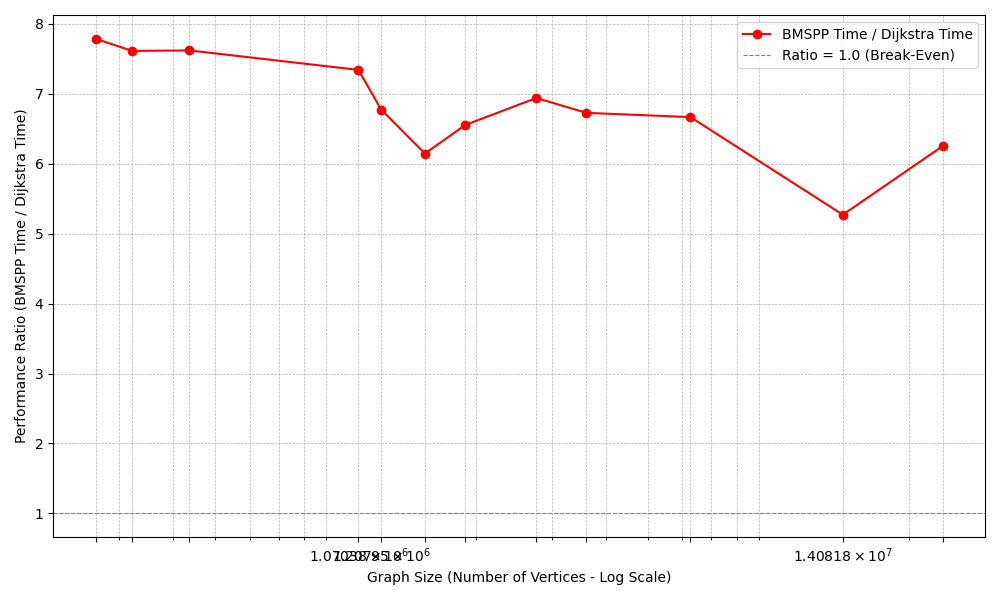
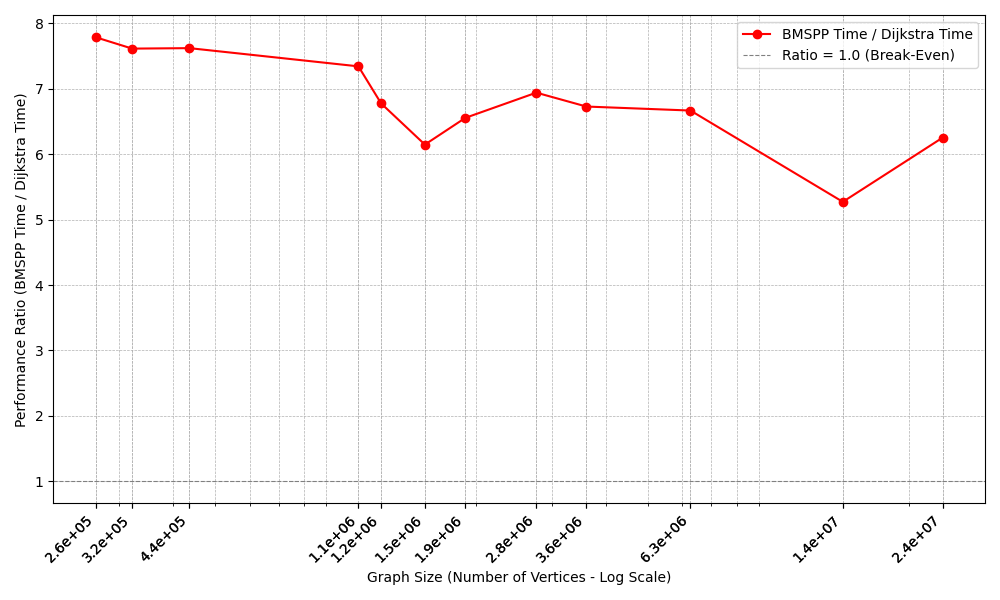
fixing ugly ticks

diff --git a/experiments/ploter.py b/experiments/ploter.py
@@ -106,7 +106,9 @@ def create_and_save_time_plot(df, filename, output_dir):
         ax.legend(title='Algorithm')
         ax.grid(True, which="both", ls="--", linewidth=0.5)
 
-        ax.set_xticks(sorted(df['n'].unique()))
+        ax.set_xticks(sorted(df['n']))
+        ax.set_xticklabels([f"{n:.1e}" for n in sorted(df['n'])])
+        plt.setp(ax.get_xticklabels(), rotation=45, ha="right")
 
         plt.tight_layout()
         plt.savefig(full_filepath)
@@ -143,7 +145,9 @@ def create_and_save_ratio_plot(df_ratio, filename, output_dir):
         ax.legend()
         ax.grid(True, which="both", ls="--", linewidth=0.5)
 
-        ax.set_xticks(sorted(df_ratio['n'].unique()))
+        ax.set_xticks(sorted(df['n']))
+        ax.set_xticklabels([f"{n:.1e}" for n in sorted(df['n'])])
+        plt.setp(ax.get_xticklabels(), rotation=45, ha="right")
 
         plt.tight_layout()
         plt.savefig(full_filepath)
